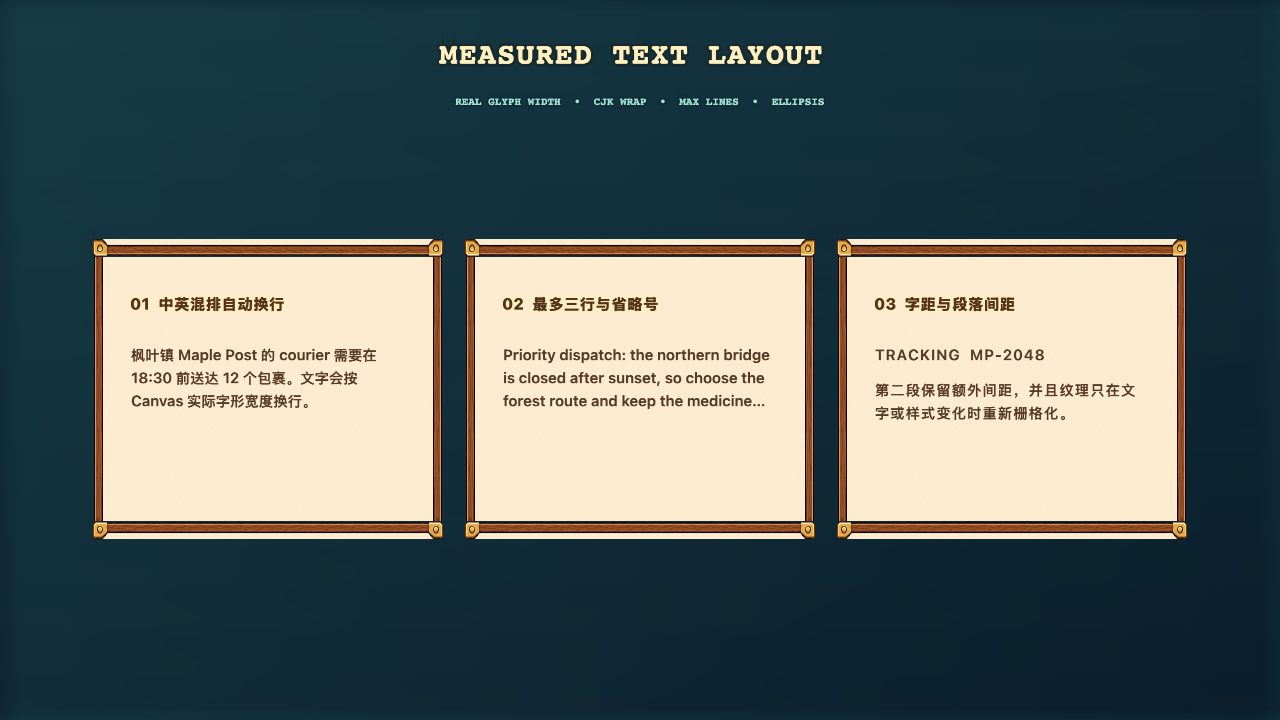
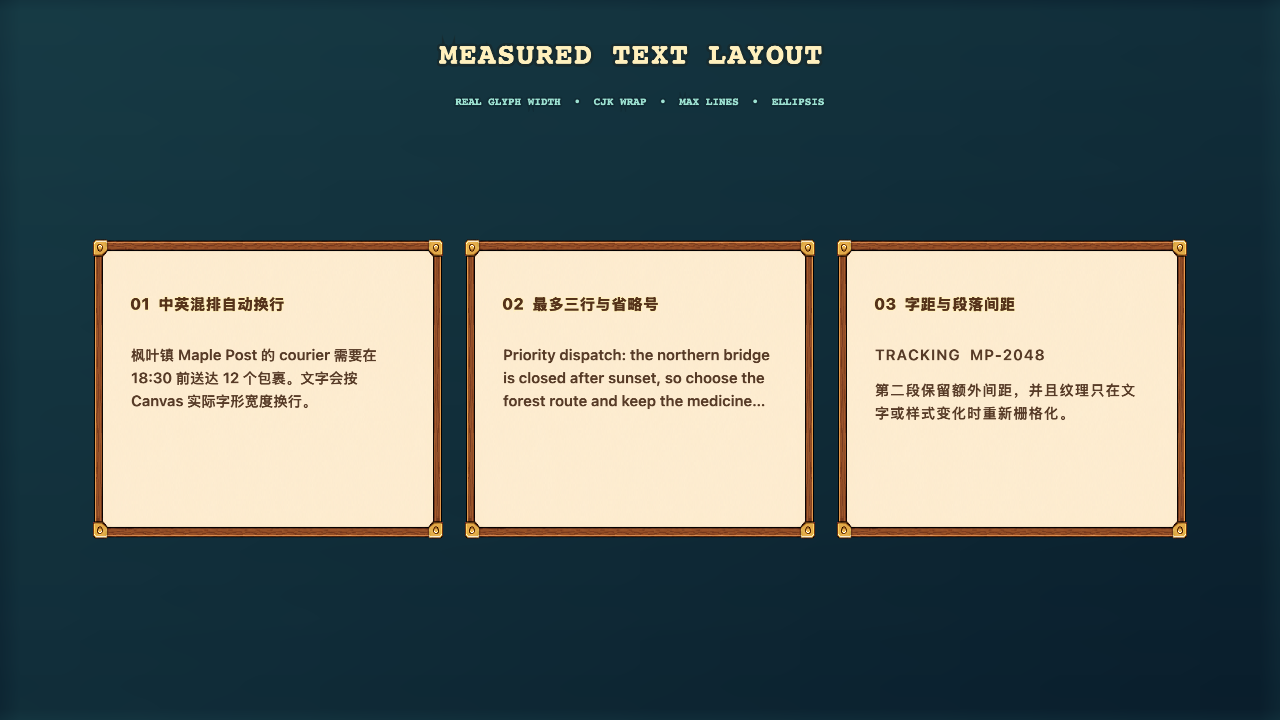
fix(2d): preserve atlas frame row orientation

Changed region(s): [[0.0625, 0.7028, 0.9375, 0.7639], [0.0625, 0.3056, 0.9375, 0.3667]]

diff --git a/examples/2d_sorting_town.ts b/examples/2d_sorting_town.ts
@@ -504,9 +504,9 @@ const courierController = {
             const dx = targetX - courier.x;
             const dy = targetY - courier.y;
             const distance = Math.hypot(dx, dy);
-            // Keep logical directions explicit: this authored atlas is uploaded with flipY.
-            if (Math.abs(dx) >= Math.abs(dy)) currentDirectionRow = dx < 0 ? 2 : 1;
-            else currentDirectionRow = dy < 0 ? 0 : 3;
+            // Map movement to the authored top-left atlas row contract.
+            if (Math.abs(dx) >= Math.abs(dy)) currentDirectionRow = dx < 0 ? 1 : 2;
+            else currentDirectionRow = dy < 0 ? 3 : 0;
             if (distance <= remainingDistance || distance < 0.001) {
                 courier.x = targetX;
                 courier.y = targetY;

diff --git a/test/spec/2d/Sprite.test.ts b/test/spec/2d/Sprite.test.ts
@@ -19,7 +19,9 @@ describe('SpriteFrame', () => {
             height: 8
         });
 
-        expect(Array.from(frame.writeUVRect(new Float32Array(4)))).toEqual([0.25, 0.5, 0.25, 0.25]);
+        expect(Array.from(frame.writeUVRect(new Float32Array(4)))).toEqual([
+            0.25, 0.25, 0.25, 0.25
+        ]);
 
         source.flipY = false;
         expect(Array.from(frame.writeUVRect(new Float32Array(4)))).toEqual([

diff --git a/src/2d/SpriteFrame.ts b/src/2d/SpriteFrame.ts
@@ -90,7 +90,7 @@ class SpriteFrame {
         target[0] = this.x / textureWidth;
         target[2] = this.width / textureWidth;
         if (this.texture.flipY) {
-            target[1] = 1 - (this.y + this.height) / textureHeight;
+            target[1] = this.y / textureHeight;
             target[3] = this.height / textureHeight;
         } else {
             target[1] = (this.y + this.height) / textureHeight;

diff --git a/CHANGELOG.md b/CHANGELOG.md
@@ -18,9 +18,11 @@
 
 ### Fixes
 
-- Use a strictly nine-slice-safe postal UI atlas with uniform stretchable edges and
-  deterministically mirrored corners/edge lighting. Correct the sorting-town courier's logical
-  direction map for its `flipY` atlas in real browser rendering.
+- Correct `SpriteFrame`'s top-left atlas-row offset for `flipY` textures on both backends. Full
+  textures were unaffected, but subframes previously selected the vertically opposite source row,
+  swapping nine-slice top/bottom pieces and requiring reversed character-direction maps. Use a
+  strictly nine-slice-safe postal UI atlas with uniform stretchable edges and deterministically
+  mirrored corners/edge lighting.
 - Expand the game-building skill's coordinate contract: Sprite positions target their anchor in the
   parent local coordinate system, and the default center anchor does not become top-left merely
   because Camera2D uses a top-left screen origin.

diff --git a/.agents/skills/build-hilo3d-games/references/2d-games.md b/.agents/skills/build-hilo3d-games/references/2d-games.md
@@ -150,8 +150,10 @@ const player = new Hilo3d.Sprite({
 Control animation with `play()`, `pause()`, `stop()`, and `gotoFrame(index)`. Listen for
 `framechange`, `loop`, and `complete` when game logic needs animation events.
 
-Frame coordinates use top-left source pixels. `SpriteFrame` accounts for the texture `flipY` policy;
-do not manually invert atlas rows.
+Frame coordinates use top-left source pixels: X grows right and Y grows down. `Texture.flipY`
+controls upload/sampling orientation and does not change this atlas-coordinate contract.
+`SpriteFrame` accounts for that policy for both complete textures and atlas subframes; do not
+manually invert atlas rows.
 
 Still define animation rows through semantic names (`up`, `down`, `left`, `right`) and verify the
 map in a real browser on both backends. Do not let gameplay code depend on an image viewer's

diff --git a/documentation/2D_RENDERING.md b/documentation/2D_RENDERING.md
@@ -70,6 +70,10 @@ stage.addChild(sprite);
 stage.enableDOMEvent('click');
 ```
 
+`SpriteFrame.x/y` 始终以原始图片左上角为原点，向右/向下增长。`flipY`
+属于纹理上传与后端采样策略，不改变图集帧坐标；应用代码和动画方向表都不应倒置 atlas 行号。该契约覆盖完整纹理与子矩形，并在 WebGL
+2、WebGPU 真实浏览器渲染中保持一致。
+
 运行时换图不需要操作材质：
 
 ```ts
